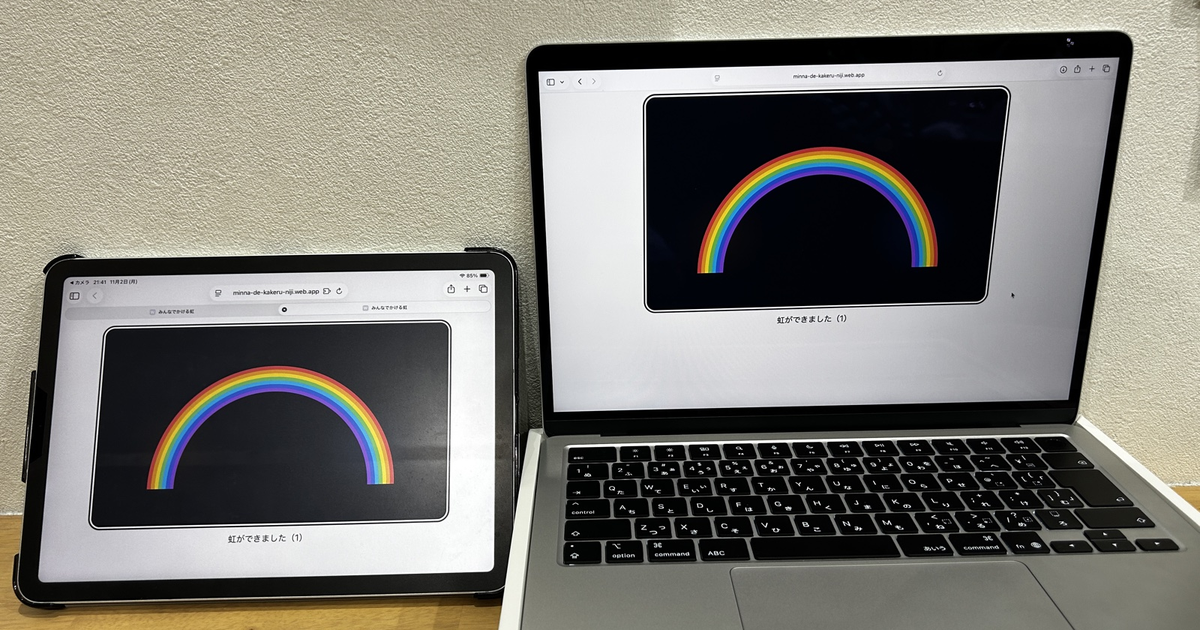
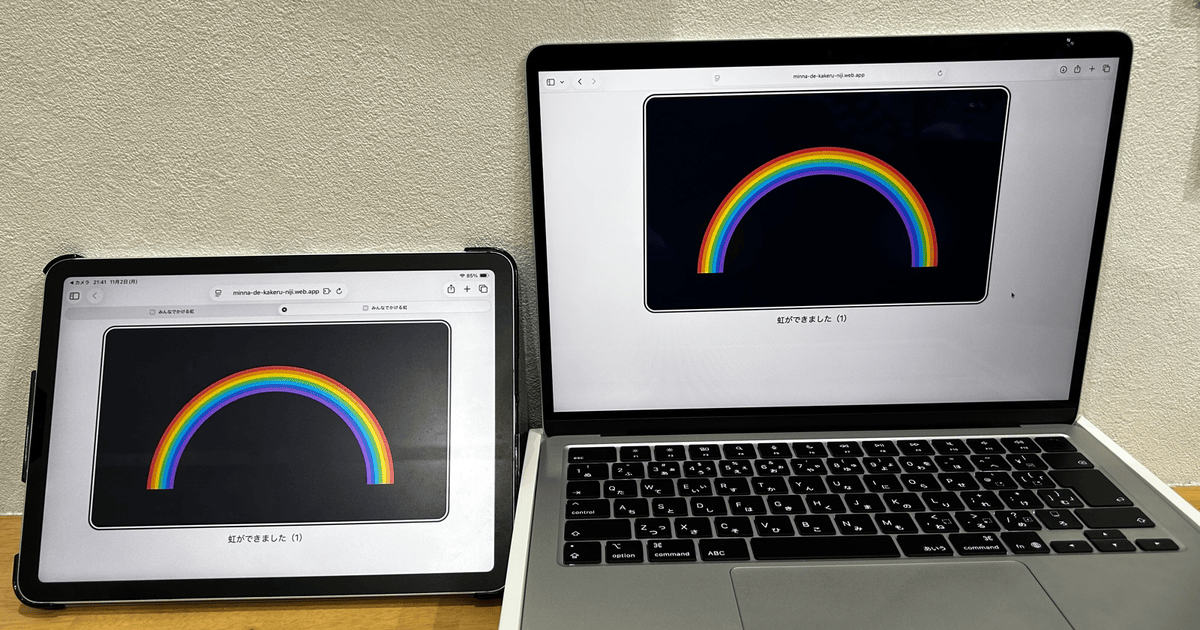
test(app-recommender)/perf(niji): 外部URL教材を前提にしたテスト期待値に修正、虹のトップ画像を圧縮 (checkpoint)
本 Phase は「みんなでかける虹」掲載の公開前の修正 Phase(MINNA-DE-KAKERU-NIJI-LISTING-FIX-1)。
ユーザーの決定(2026-11-17)に基づく。起点: feature/minna-de-kakeru-niji-listing-1 の a91d985
(origin/main は 0a3eda6 のまま)。製品側コードは変更していない。

(a) tools/app-recommender/app-recommender-test.js(テスト側の期待値・前提のみ)
切り分け: 新しい失敗3件はいずれもテスト側が「全教材がどのまなのリポジトリ内にある」「apps-data の
input とガイド掲載が完全一致する」を前提にしていたことが原因。wizard.html は externalUrl を設計
どおり扱っており、製品側の不具合は見つからなかった。
- 14 wizard のリンク: 「https://donomana.jp/ で始まる」→「各カードのリンクが、その教材の期待URL
  (https://donomana.jp/<filename>.html、externalUrl を持つ教材は externalUrl)と完全一致」に変更
  (従来より厳しい)。externalUrl の教材が結果に出て externalUrl へリンクすることのチェックを追加。
- 17 metadata: 「全 filename に .html がある」を externalUrl を持たない教材に限定し、externalUrl の
  教材は「https の URL を持ち、ローカルの <filename>.html が無い」ことを別チェックで確認。
- 16/16b ガイドとの件数一致: ユーザーの決定「switch-gaze-guide.html の視線入力欄・スイッチ欄には
  虹を載せない(視線ドウェル・スイッチスキャン非対応のため)」を、id 指定の例外
  (GUIDE_NOT_LISTED_IDS = ['minna-de-kakeru-niji'])として記録し、期待件数から除く。
  16c を追加: 例外の id が apps-data に存在し、ガイドに実際に載っていないこと(例外が古くなったら失敗する)。
- 検出力の確認(作業用の複製でのみ実施): wizard が externalUrl を無視する／ローカルに
  minna-de-kakeru-niji.html がある／ガイドの視線欄に虹が載っている、の3つの不具合を入れると、
  該当チェックがすべて失敗することを確認。
- 触っていない既存の失敗(origin/main でも同じ): 「ALL_APPS === 36」「Q1=any で36件」の固定値2件、
  スイッチ欄の件数不一致(28/30。gaze-keyboard・sakana-tsuri・ringo-potton-app がガイド未掲載)。
- switch-gaze-guide.html、wizard.html、generate.js、apps-data.json は無変更。
  追跡されている出力 app-recommender-test-results.json は更新していない。

(b) assets/mockups/minna-de-kakeru-niji.png(ファイル名・参照は無変更)
[…]

diff --git a/tools/app-recommender/app-recommender-test.js b/tools/app-recommender/app-recommender-test.js
@@ -55,6 +55,27 @@ function appsWithInput(v) {
   return APPS.filter((a) => Array.isArray(a.input) && a.input.indexOf(v) !== -1).map((a) => a.title);
 }
 
+// MINNA-DE-KAKERU-NIJI-LISTING-FIX-1: apps whose body is hosted on an external site
+// (apps-data.json `externalUrl`, first used by minna-de-kakeru-niji). They have a generated
+// app-details page here but, by design, no local <filename>.html, and wizard.html links them to
+// their externalUrl. The checks below state that rule exactly instead of assuming every app is
+// local; an app WITHOUT externalUrl is still held to the original expectations.
+const EXTERNAL_APPS = APPS.filter((a) => a.externalUrl);
+function expectedAppUrl(a) {
+  return a.externalUrl || ('https://donomana.jp/' + a.filename + '.html');
+}
+
+// User decision (2026-11-17): minna-de-kakeru-niji is NOT listed in switch-gaze-guide.html's
+// switch / gaze sections, because it has no in-app gaze dwell or switch scanning (it is operated
+// through the OS: iPad Switch Control, Tobii, etc.). It keeps `input: switch/gaze` in
+// apps-data.json, so it is excluded here, by id, from the guide-parity expectation only.
+// This is a named exception, not a rule for all externalUrl apps; check 16c fails if an id here
+// is unknown or the app is listed in the guide after all (so the exception cannot go stale silently).
+const GUIDE_NOT_LISTED_IDS = ['minna-de-kakeru-niji'];
+function guideExpectedApps(v) {
+  return APPS.filter((a) => Array.isArray(a.input) && a.input.indexOf(v) !== -1 && GUIDE_NOT_LISTED_IDS.indexOf(a.id) === -1);
+}
+
 const PREVIOUSLY_MISSING_7 = [
   'おおきい？ちいさい？くらべよう', 'かたちをあわせよう', 'みるとひろがる',
   'どこかな？みーつけた！', 'じゅんばんにみよう', 'どっちがいい？', 'さわってひろがる'
@@ -370,9 +391,20 @@ const PREVIOUSLY_MISSING_7 = [
   {
     const { context, page, bucket } = await freshPage(browser);
     await answerAll(page, 'any', '学習アプリ', 'none');
-    const hrefs = await page.$$eval('.open-btn', (els) => els.map((e) => e.getAttribute('href')));
-    const badHrefs = hrefs.filter((h) => !h.startsWith('https://donomana.jp/'));
-    check('wizard result links: all use the expected https://donomana.jp/ prefix', badHrefs.length === 0, badHrefs);
+    // Each result card's link must be exactly that app's expected URL:
+    // https://donomana.jp/<filename>.html, or the app's externalUrl when it has one.
+    // (Stricter than the former "starts with https://donomana.jp/" prefix check.)
+    const cards = await page.$$eval('.app-card', (els) => els.map((e) => {
+      const nameEl = e.querySelector('.app-name');
+      const btnEl = e.querySelector('.open-btn');
+      return { name: nameEl ? nameEl.textContent.trim() : null, href: btnEl ? btnEl.getAttribute('href') : null };
+    }));
+    const byTitle = {};
+    APPS.forEach((a) => { byTitle[a.title] = a; });
+    const badHrefs = cards.filter((c) => !byTitle[c.name] || c.href !== expectedAppUrl(byTitle[c.name]));
+    check('wizard result links: each link is the app\'s expected URL (https://donomana.jp/<filename>.html, or its externalUrl)', cards.length > 0 && badHrefs.length === 0, badHrefs);
+    const externalMissing = EXTERNAL_APPS.filter((a) => !cards.some((c) => c.name === a.title && c.href === a.externalUrl));
+    check('wizard result links: every externalUrl app is shown and links to its externalUrl', externalMissing.length === 0, externalMissing.map((a) => a.id));
     check('broken-link block: no console.error', bucket.consoleErrors.length === 0, bucket.consoleErrors);
     await context.close();
   }
@@ -392,7 +424,7 @@ const PREVIOUSLY_MISSING_7 = [
     const html = fs.readFileSync(path.join(ROOT, 'switch-gaze-guide.html'), 'utf-8');
     const gazeSection = html.match(/<section id="gaze-apps">([\s\S]*?)<\/section>/)[1];
     const gazeCardCount = (gazeSection.match(/class="app-card"/g) || []).length;
-    const expectedGazeCount = appsWithInput('gaze').length;
+    const expectedGazeCount = guideExpectedApps('gaze').length;
     check('switch-gaze-guide.html gaze section: full parity with apps-data.json input=gaze count (diff=0 target, §30)', gazeCardCount === expectedGazeCount, { shown: gazeCardCount, expected: expectedGazeCount });
   }
 
@@ -403,12 +435,22 @@ const PREVIOUSLY_MISSING_7 = [
     const html = fs.readFileSync(path.join(ROOT, 'switch-gaze-guide.html'), 'utf-8');
     const switchSection = html.match(/<section id="switch-apps">([\s\S]*?)<\/section>/)[1];
     const switchCardCount = (switchSection.match(/class="app-card"/g) || []).length;
-    const expectedSwitchCount = appsWithInput('switch').length;
+    const expectedSwitchCount = guideExpectedApps('switch').length;
     check('switch-gaze-guide.html switch section: full parity with apps-data.json input=switch count', switchCardCount === expectedSwitchCount, { shown: switchCardCount, expected: expectedSwitchCount });
 
     const switchHrefs = [...switchSection.matchAll(/href="([^"]+)"/g)].map((m) => m[1]);
     const dupHrefs = switchHrefs.filter((h, i) => switchHrefs.indexOf(h) !== i);
     check('switch-gaze-guide.html switch section: no duplicate app-card hrefs', dupHrefs.length === 0, dupHrefs);
+  }
+
+  // ============= 16c. Guide exceptions are real: GUIDE_NOT_LISTED_IDS apps exist and are not linked in the guide =============
+  {
+    const html = fs.readFileSync(path.join(ROOT, 'switch-gaze-guide.html'), 'utf-8');
+    const stale = GUIDE_NOT_LISTED_IDS.filter((id) => {
+      const app = APPS.find((a) => a.id === id);
+      return !app || html.includes('app-details/' + app.filename + '-detail.html');
+    });
+    check('switch-gaze-guide.html: apps excluded from the guide by decision exist in apps-data.json and are not linked in the guide', stale.length === 0, stale);
   }
 
   // ============= 17. Metadata consistency: apps-data.json =============
@@ -421,8 +463,13 @@ const PREVIOUSLY_MISSING_7 = [
     const dupIds = ids.filter((id, i) => ids.indexOf(id) !== i);
     check('metadata: no duplicate app ids', dupIds.length === 0, dupIds);
 
-    const missingFilenameHtml = APPS.filter((a) => !fs.existsSync(path.join(ROOT, a.filename + '.html')));
-    check('metadata: every filename has a corresponding .html file', missingFilenameHtml.length === 0, missingFilenameHtml.map((a) => a.id));
+    // Apps without externalUrl must have their local <filename>.html (unchanged expectation).
+    // Apps with externalUrl are hosted off-site: they must have a valid https URL and must NOT
+    // also have a local <filename>.html (which would make the launch target ambiguous).
+    const missingFilenameHtml = APPS.filter((a) => !a.externalUrl && !fs.existsSync(path.join(ROOT, a.filename + '.html')));
+    check('metadata: every filename has a corresponding .html file (apps without externalUrl)', missingFilenameHtml.length === 0, missingFilenameHtml.map((a) => a.id));
+    const badExternal = EXTERNAL_APPS.filter((a) => !/^https:\/\/[^\s"'<>]+$/.test(a.externalUrl) || fs.existsSync(path.join(ROOT, a.filename + '.html')));
+    check('metadata: externalUrl apps have an https URL and no local .html file', badExternal.length === 0, badExternal.map((a) => a.id));
 
     const missingDetail = APPS.filter((a) => !fs.existsSync(path.join(ROOT, 'app-details', a.filename + '-detail.html')));
     check('metadata: every app has a generated app-details page', missingDetail.length === 0, missingDetail.map((a) => a.id));
